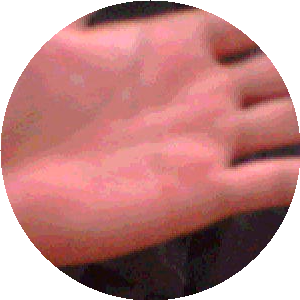
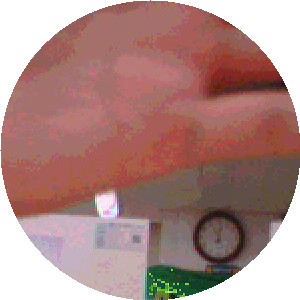
up

diff --git a/Software/최종실행파일/Ronaldo_Project.py b/Software/최종실행파일/Ronaldo_Project.py
@@ -542,8 +542,9 @@ def main():
                     # 공격수가 킥을 선택하지 않은 경우 (2인 플레이)
                     if game_state["game_mode"] == 'multi' and game_state["attacker_selected_col"] is None:
                         game_state["attacker_did_not_kick"] = True
-                        game_state["is_success"] = True 
+                        game_state["is_success"] = False 
                         game_state["is_failure"] = False
+                        game_state["score"] += 1 
                     else: # 1인 플레이 또는 공격수가 킥을 선택한 경우
                         # 공 위치 결정 (1인플: 랜덤, 2인플: 공격수 선택)
                         game_state["ball_col"] = random.randint(0, 4) if game_state["game_mode"] == 'single' else game_state["attacker_selected_col"]
